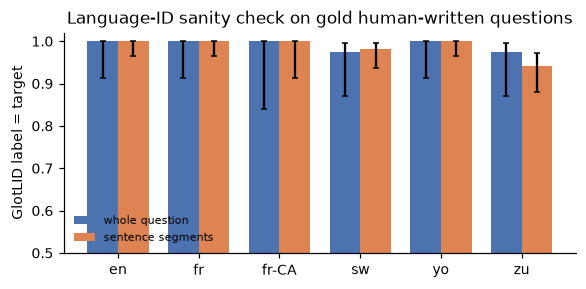
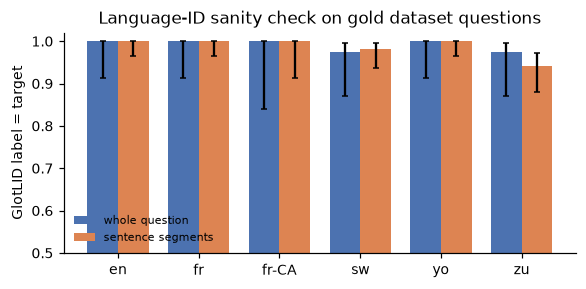
m4: PIQA provenance is post-edited MT (not human-written/Quebecois-authored); DATA_LICENSE.md with per-path terms, the Global PIQA no-training clause and the Cohere Labs AUP

Changed region(s): [[0.0922, 0.0311, 0.9829, 0.0934]]

diff --git a/probe/lid_check.py b/probe/lid_check.py
@@ -1,4 +1,4 @@
-"""Validate the language-ID model on gold human-written text before trusting it on traces.
+"""Validate the language-ID model on gold dataset text (human-translated MGSM/AfriMGSM; post-edited MT for Global PIQA) before trusting it on traces.
 
 For every language in the slice, run GlotLID on (a) the slice's question texts and
 (b) sentence segments of them, and report how often the label lands in the target

diff --git a/probe/figures.py b/probe/figures.py
@@ -232,7 +232,7 @@ def fig_lid_validation(lidv, out):
     ax.set_xticks(range(len(langs)), langs)
     ax.set_ylim(0.5, 1.02)
     ax.set_ylabel("GlotLID label = target")
-    ax.set_title("Language-ID sanity check on gold human-written questions")
+    ax.set_title("Language-ID sanity check on gold dataset questions")
     ax.legend(fontsize=7, frameon=False, loc="lower left")
     save(fig, out, "lid_validation.png")
 

diff --git a/README.md b/README.md
@@ -57,9 +57,9 @@ flowchart LR
 
 ### Is the language ID trustworthy here?
 
-![Bar chart: share of gold human-written questions per language that GlotLID labels with the right language, whole question and per sentence; all languages are at or above about 94%.](docs/figures/lid_validation.png)
+![Bar chart: share of gold dataset questions per language that GlotLID labels with the right language, whole question and per sentence; all languages are at or above about 94%.](docs/figures/lid_validation.png)
 
-*Data: [`results/lid_validation.json`](results/lid_validation.json) · script: [`probe/lid_check.py`](probe/lid_check.py) · figure: [`probe/figures.py`](probe/figures.py).* GlotLID was run on the slice's own human-written questions before it was used on traces. Swahili sometimes comes back as Congo Swahili (`swc`), which counts as Swahili; Zulu is sometimes confused with other Nguni languages, so a lenient Zulu rate (also accepting `xho/nbl/ssw/nde`) is reported alongside. **GlotLID has a single `fra_Latn` label**, so the L2 rate cannot tell Canadian French from France French. The fr-CA result is about reasoning *on* Québécois-authored items, not about producing Québécois-register traces.
+*Data: [`results/lid_validation.json`](results/lid_validation.json) · script: [`probe/lid_check.py`](probe/lid_check.py) · figure: [`probe/figures.py`](probe/figures.py).* GlotLID was run on the slice's own gold questions before it was used on traces. These are human translations for MGSM and AfriMGSM, but Global PIQA *parallel* items were machine-translated from English and then corrected by a native speaker (per its dataset card), so they are post-edited MT, not originally authored text. Swahili sometimes comes back as Congo Swahili (`swc`), which counts as Swahili; Zulu is sometimes confused with other Nguni languages, so a lenient Zulu rate (also accepting `xho/nbl/ssw/nde`) is reported alongside. **GlotLID has a single `fra_Latn` label**, so the L2 rate cannot tell Canadian French from France French. The fr-CA result is about reasoning *on* Global PIQA's fr-CA items (English items machine-translated and then post-edited by a native speaker, so not Québécois-authored), not about producing Québécois-register traces. Cultural readings of the fr-CA numbers should be made with that in mind.
 
 ## Results
 
@@ -247,4 +247,4 @@ python -m pytest -q tests
 
 ## Licences and attribution
 
-Code: MIT. MGSM and Global PIQA are CC-BY-SA-4.0; AfriMGSM is Apache-2.0. `data/slice.jsonl` is a derived subset with the same licences. Tiny Aya Global is CC-BY-NC-4.0, so the committed traces are model outputs released for non-commercial research. GlotLID: see `cis-lmu/glotlid`.
+Licences differ by path; see [`DATA_LICENSE.md`](DATA_LICENSE.md). In short: code is MIT ([`LICENSE`](LICENSE)). `data/slice.jsonl` is a subset of MGSM (CC-BY-SA-4.0), AfriMGSM (Apache-2.0) and Global PIQA *parallel* (CC-BY-SA-4.0). The traces in `results/traces/` and `docs/examples.md` are Tiny Aya Global outputs (CC-BY-NC-4.0, plus the Cohere Labs Acceptable Use Policy) that contain dataset text. **Global PIQA's card forbids training AI systems on Global PIQA or on synthetic data seeded from it. That restriction applies to the PIQA traces and examples here: use them for evaluation and analysis only, never for training.**

diff --git a/DATA_LICENSE.md b/DATA_LICENSE.md
@@ -1,0 +1,24 @@
+# Data and output licences (per path)
+
+This repository mixes code, third-party dataset text and model outputs, and they are under different terms. The MIT [`LICENSE`](LICENSE) covers **code only**.
+
+| Path | What it is | Terms |
+|---|---|---|
+| `probe/`, `scripts/`, `tests/`, `*.sh`, `*.py` | code written for this study | MIT ([`LICENSE`](LICENSE)) |
+| `data/slice.jsonl` (`mgsm-*` en/fr/sw rows) | subset of MGSM, `juletxara/mgsm` @ `b2f13d4` | CC-BY-SA-4.0 (Shi et al., 2022; derived from GSM8K, Cobbe et al., 2021) |
+| `data/slice.jsonl` (`mgsm-*` yo/zu rows) | subset of AfriMGSM, `masakhane/afrimgsm` @ `8e4268d` | Apache-2.0 |
+| `data/slice.jsonl` (`piqa-*` rows) | subset of Global PIQA *parallel*, `mrlbenchmarks/global-piqa-parallel` @ `b0b1851` | CC-BY-SA-4.0 **plus the Global PIQA usage restriction below** |
+| `results/traces/*.jsonl`, `docs/examples.md`, `results/examples.json`, `results/determinism/*.jsonl` | outputs of Tiny Aya Global (`CohereLabs/tiny-aya-global-GGUF`), which quote the dataset prompts | model outputs under the Tiny Aya CC-BY-NC-4.0 licence (the `tiny-aya-global` card says it "requires also adhering to" the [Cohere Labs Acceptable Use Policy](https://docs.cohere.com/docs/c4ai-acceptable-use-policy) ); non-commercial research use only. The quoted dataset text keeps its own licence (rows above) |
+| `results/*.json`, `results/*.csv`, `docs/results.md`, `docs/figures/*.png` | statistics, the hand coding (`results/error_coding.csv`) and figures computed for this study | CC-BY-4.0, except quoted dataset or model text, which keeps the terms above |
+
+## Global PIQA usage restriction (repeated from its dataset card)
+
+> Global PIQA is released under a CC BY-SA 4.0 license. However, we do **not** allow training of AI systems on Global PIQA, or on synthetic data that uses Global PIQA as a seed.
+
+Every `piqa-*` row in `data/slice.jsonl` and every PIQA trace in `results/traces/tiny-aya-global-q4km.piqa.jsonl` and `docs/examples.md` falls under this restriction. **Use them for evaluation and analysis only. Do not use them to train or fine-tune any model.**
+
+## Provenance note
+
+Global PIQA *parallel* items were machine-translated from English and then corrected by a native speaker (per its dataset card). The fr-CA and fr-FR PIQA items are therefore post-edited MT of English items, not text originally written in Québec or France. MGSM and AfriMGSM items are human translations of GSM8K questions.
+
+The language-ID model used for scoring, GlotLID (`cis-lmu/glotlid` @ `85cd671`), is downloaded at setup time and is not redistributed here. See its model card for its terms.
